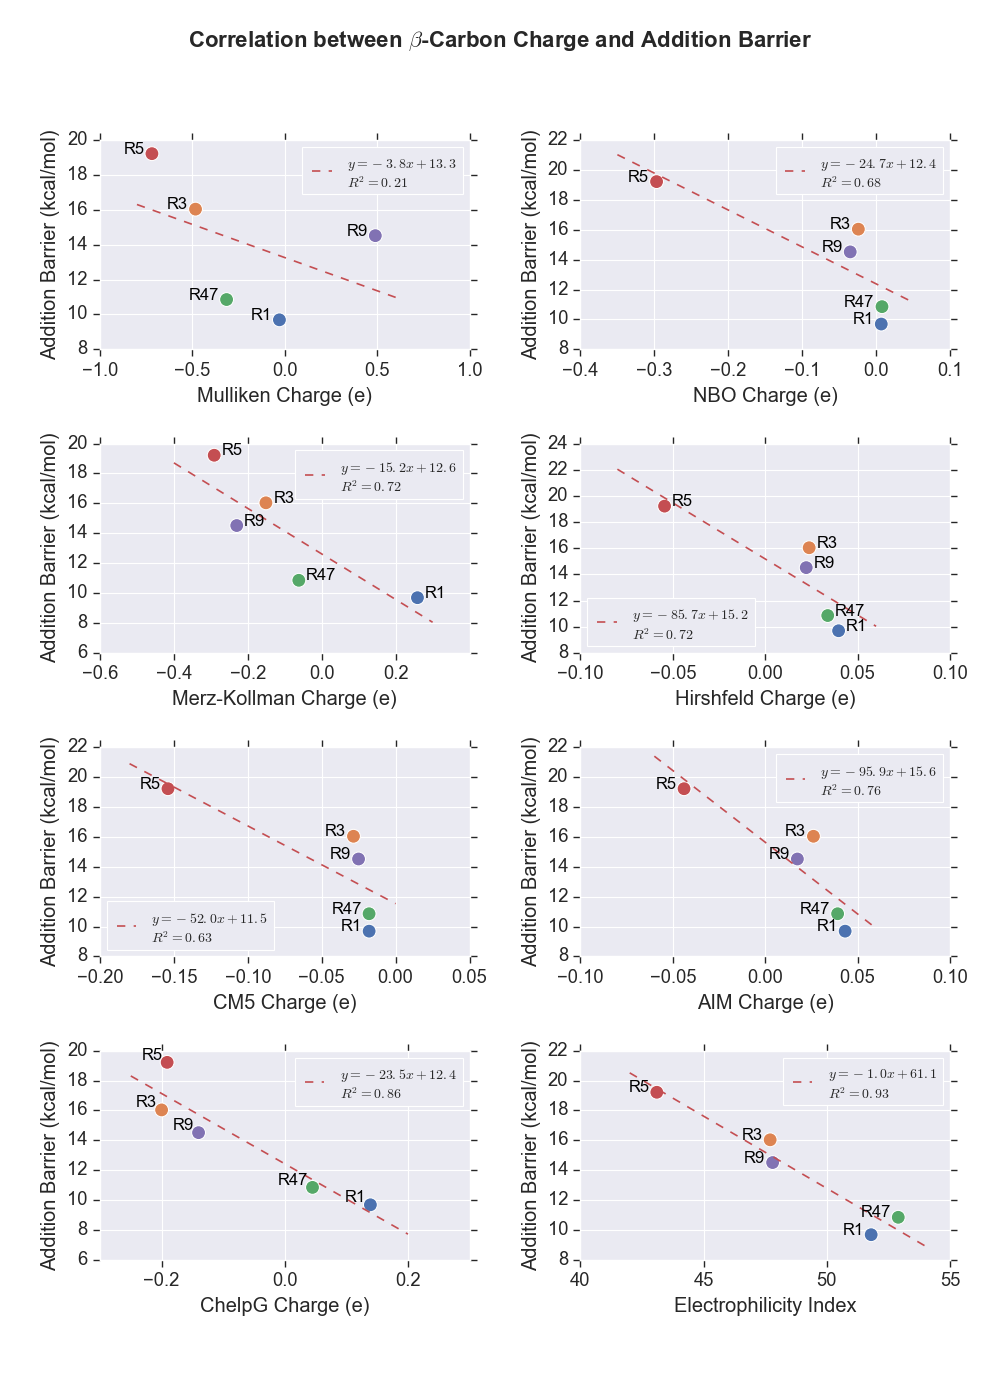
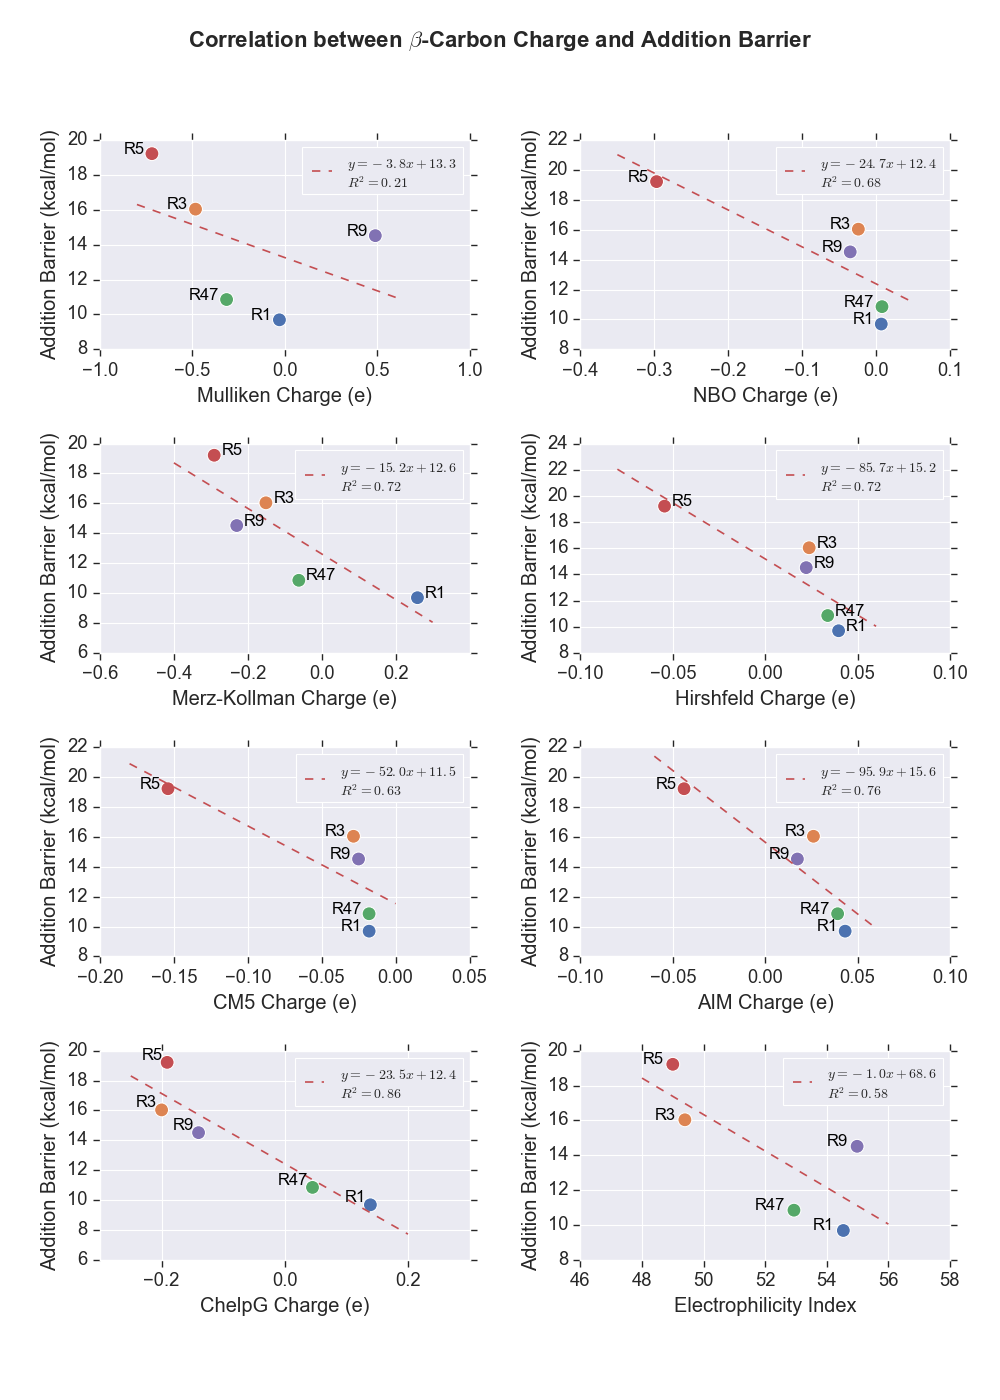
Modified visualG Files

diff --git a/QM/run_gaussian/tabulate.py b/QM/run_gaussian/tabulate.py
@@ -30,26 +30,26 @@ def replaceMultiple(main_str, toBeReplaced, new_str):
 def find_val(line_list, target_str):
     val, isEnergy, isMethod = None, 'Energies' in target_str[0] or 'Enthalpies' in target_str[0], '%chk' in target_str[0]
     for i, string in enumerate(target_str):
-            for j, line in enumerate(line_list):
-                if string in line:
-                    if isMethod:
-                        value_inc = line_list[j - 2]
-                        val = value_inc.split(' ')[2]; break
+        for j, line in enumerate(line_list):
+            if string in line:
+                if isMethod:
+                    value_inc = line_list[j - 2]
+                    val = value_inc.split(' ')[2]; break
+                else:
+                    value_inc = line.split(string)[-1].strip()
+                    if isEnergy:
+                        val = float(value_inc.split('=')[-1].strip().replace(' ', '')); break
                     else:
-                        value_inc = line.split(string)[-1].strip()
-                        if isEnergy:
-                            val = float(value_inc.split('=')[-1].strip().replace(' ', '')); break
+                        if '\\' in value_inc:
+                            val = value_inc.split('\\')[0].split('=')[-1]
                         else:
-                            if '\\' in value_inc:
-                                val = value_inc.split('\\')[0].split('=')[-1]
-                            else:
-                                val = value_inc + line_list[j - 1].split('\\')[0]
-                                val = val.split('=')[-1]
-                            try:
-                                val = val.replace(' ', '')
-                                float(val); break
-                            except ValueError:
-                                continue
+                            val = value_inc + line_list[j - 1].split('\\')[0]
+                            val = val.split('=')[-1]
+                        try:
+                            val = val.replace(' ', '')
+                            float(val); break
+                        except ValueError:
+                            continue
     if val is None:
         raise Exception('Target string {0} not found!'.format(target_str))
     # print(target_str, val, line_list[-3])  # For debugging
@@ -57,32 +57,41 @@ def find_val(line_list, target_str):
 
 
 if __name__ == "__main__":
-    class_type = 'Second_Products'
-    input_dir = '{0}/Cross_Conjugation/Conformational_Search/mystery/Chloroform/{1}'.format(DATA_PATH, class_type)
+    class_type = 'Enol'
+    input_dir = '{0}/QM/Conformational_Search/Products/{1}'.format(DATA_PATH, class_type)
     groups = [f for f in os.listdir(input_dir) if isdir('{0}/{1}'.format(input_dir, f)) and 'exclude' not in f]  # and 'Reactant' not in f
     print("\n# Tabulating values of interest from Gaussian .out files to an Excel sheet...")
     print("\n# Input directory:\n", input_dir, "\n\n# Groups:\n", groups, "\n")
-    method_list, title_list, molecule_list, conformer_list, NImag_list, Z_list, E_list, H_list, G_list = [], [], [], [], [], [], [], [], []
+    method_list, title_list, molecule_list, conformer_list, NImag_list, Z_list, E_list, H_list, G_list, MP2_list = [], [], [], [], [], [], [], [], [], []
     var_fill_list = [method_list, NImag_list, Z_list, E_list, H_list, G_list]
+    # var_fill_list = [method_list, MP2_list]
     keyword_list = [['%chk'], ['NI', 'Im'], ['zero-point Energies'], ['HF'], ['thermal Enthalpies'], ['thermal Free Energies']]
+    # keyword_list = [['%chk'], ['MP2']]
     for i, group in enumerate(groups):  # Potentially R, TSS, P
         group_dir = '{0}/{1}'.format(input_dir, group)
         conformers = [g for g in os.listdir(group_dir) if isdir('{0}/{1}'.format(group_dir, g))]
         for j, title in enumerate(conformers):
             conformer_dir = '{0}/{1}'.format(group_dir, title)
             print("Conformer:", title)
-            with open('{0}/{1}.out'.format(conformer_dir, title), 'r') as f:
-                line_list = f.readlines()
-                line_list.reverse()
-                for i, var_list in enumerate(var_fill_list):
-                    val = find_val(line_list, keyword_list[i])
-                    var_list.append(val)
-                title_list.append(title)
-                molecule_list.append(replaceMultiple(title.split('c')[0].replace('_', ''), ['TR', 'TSS', 'TP'], ''))
-                conformer_list.append('c' + title.split('c')[-1])
+            try:
+                with open('{0}/{1}.out'.format(conformer_dir, title), 'r') as f:
+                    line_list = f.readlines()
+                    line_list.reverse()
+                    for i, var_list in enumerate(var_fill_list):
+                        val = find_val(line_list, keyword_list[i])
+                        var_list.append(val)
+                    title_list.append(title)
+                    molecule_list.append(replaceMultiple(title.split('c')[0].replace('_', ''), ['TR', 'TSS', 'TP'], ''))
+                    conformer_list.append('c' + title.split('c')[-1])
+            except FileNotFoundError:
+                print("{0}/{1}.out not found!".format(conformer_dir, title))
+                continue
     data = {'Method': method_list, 'Title': title_list, 'Molecule': molecule_list, 'Conformer': conformer_list, 'NImag': NImag_list,
-            'Z (Hartree)': Z_list, 'E (Hartree)': E_list, 'H (Hartree)': H_list, 'G (Hartree)': G_list}
+           'Z (Hartree)': Z_list, 'E (Hartree)': E_list, 'H (Hartree)': H_list, 'G (Hartree)': G_list}
+    # data = {'Method': method_list, 'Title': title_list, 'Molecule': molecule_list, 'Conformer': conformer_list,
+    #        'MP2': MP2_list}
     df = pd.DataFrame(data, columns=['Method', 'Title', 'Molecule', 'Conformer', 'NImag', 'Z (Hartree)', 'E (Hartree)', 'H (Hartree)', 'G (Hartree)'])
+    # df = pd.DataFrame(data, columns=['Method', 'Title', 'Molecule', 'Conformer', 'MP2'])
     title_list = sort_human(title_list)
     sorted_df = df.set_index('Title').reindex(title_list).reset_index()
     print("# Sorted data frame:\n", sorted_df)

diff --git a/QM/visualG/plot_config.py b/QM/visualG/plot_config.py
@@ -75,7 +75,7 @@ combination_dict = {
                 "R2": 0.7741,
                 "X-AXIS": -0.005,
                 "Y-AXIS": 0,
-                "LEG": "lower left",
+                "LEG": "upper right",
                 "ALIGN": "right",
                 "FONTSIZE": "x-small",
                 "X-NAME": "CM5 Charge (e)"
@@ -103,9 +103,9 @@ combination_dict = {
                 "X-NAME": "ChelpG Charge (e)"
             },
             "Omega": {
-                "M": -0.7225,
-                "C": 56.999,
-                "R2": 0.9376,
+                "M": -0.7187,
+                "C": 59.268,
+                "R2": 0.7297,
                 "X-AXIS": -0.4,
                 "Y-AXIS": 0,
                 "LEG": "upper right",
@@ -214,7 +214,7 @@ combination_dict = {
                 "R2": 0.7221,
                 "X-AXIS": 0.004,
                 "Y-AXIS": 0,
-                "LEG": "lower left",
+                "LEG": "upper right",
                 "ALIGN": "left",
                 "FONTSIZE": "x-small",
                 "X-NAME": "Hirshfeld Charge (e)"
@@ -225,7 +225,7 @@ combination_dict = {
                 "R2": 0.6279,
                 "X-AXIS": -0.005,
                 "Y-AXIS": 0,
-                "LEG": "lower left",
+                "LEG": "upper right",
                 "ALIGN": "right",
                 "FONTSIZE": "x-small",
                 "X-NAME": "CM5 Charge (e)"
@@ -253,9 +253,9 @@ combination_dict = {
                 "X-NAME": "ChelpG Charge (e)"
             },
             "Omega": {
-                "M": -0.9655,
-                "C": 61.066,
-                "R2": 0.9274,
+                "M": -1.046,
+                "C": 68.634,
+                "R2": 0.5807,
                 "X-AXIS": -0.3,
                 "Y-AXIS": 0,
                 "LEG": "upper right",
